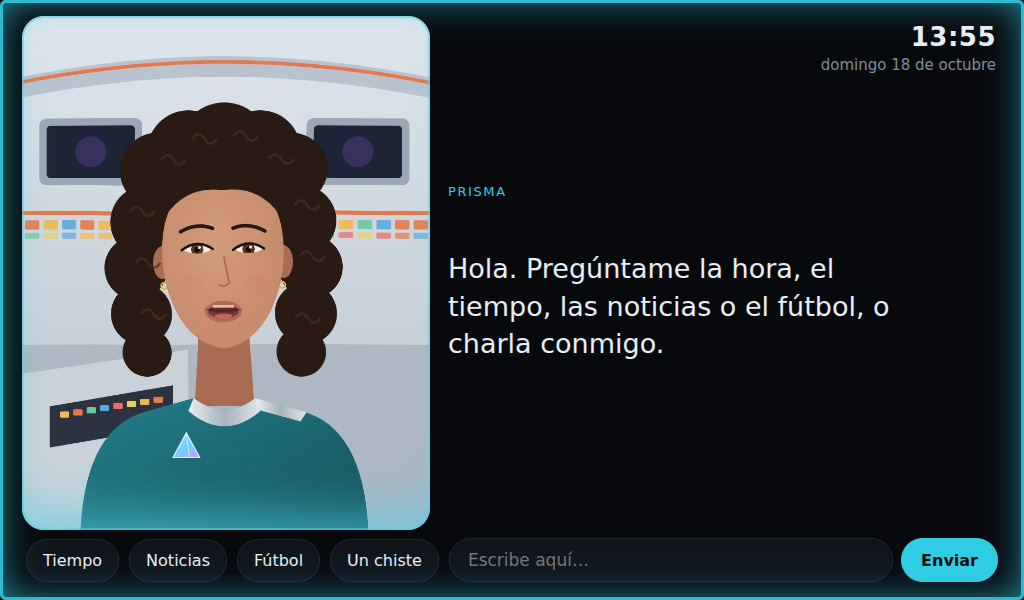
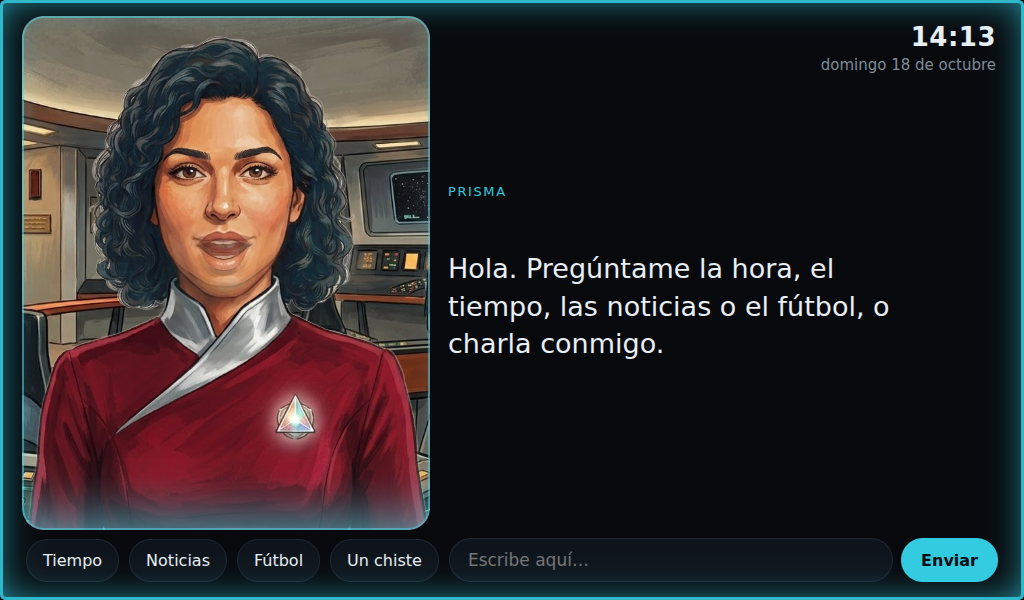
Retrato: la oficial científica de Pep, decorado aparte y variantes de postura
- prepara_retrato.py: fondo opcional con la persona recortada (rembg); la boca se toma siempre de la
  ventana nariz→barbilla (aunque cierre los ojos o retoque la barbilla); variantes con otra postura
  (piensa con la mano) se usan enteras con fundido
- retrato.js: decorado fijo con su propio encuadre y capas que sustituyen a la base
- retrato_muestra: el personaje definitivo preparado

Claude-Session: https://claude.ai/code/session_011wCrvR5XLZziNZnBQxWkpT

diff --git a/software/interfaz/retrato.js b/software/interfaz/retrato.js
@@ -14,7 +14,7 @@ const VS = `
 attribute vec2 aPos; attribute vec2 aUv;
 uniform vec2 uCentro, uEscala, uCaja;           // encuadre: imagen → píxeles de la caja
 uniform vec3 uCabeza; uniform float uCuello, uAng, uRespira;
-uniform vec2 uMueve;
+uniform vec2 uMueve; uniform float uFijo;            // uFijo = 1: el decorado no se deforma
 varying vec2 vUv;
 void main() {
   vec2 p = aPos;
@@ -28,6 +28,7 @@ void main() {
   float cuerpo = clamp(1.0 - abs(p.x - uCabeza.x) / (uCabeza.z * 1.6), 0.0, 1.0);
   float sube = max(w, cuerpo * smoothstep(uCuello + uCabeza.z * 1.6, uCuello, p.y));
   q.y -= uRespira * sube;
+  if (uFijo > 0.5) q = p;
   vec2 s = (q - uCentro) * uEscala + uCaja * 0.5;
   gl_Position = vec4(s.x / uCaja.x * 2.0 - 1.0, 1.0 - s.y / uCaja.y * 2.0, 0.0, 1.0);
   vUv = aUv;
@@ -78,6 +79,11 @@ export async function inicia(raiz = "/retrato/") {
 
   const base = capa(await carga(raiz + datos.base), 0, 0, datos.ancho, datos.alto, MALLA);
   base.alfa = 1;
+  // Decorado aparte (la persona va recortada delante): no se deforma y tiene su propio encuadre
+  const df = datos.fondo;
+  const fondo = df ? capa(await carga(raiz + df.archivo), 0, 0, df.ancho, df.alto, 1) : null;
+  if (fondo) fondo.alfa = 1;
+  const centroF = df ? { ...(df.centro || { x: df.ancho / 2, y: df.alto / 2 }) } : null;
   const capas = {};
   await Promise.all(Object.entries(datos.capas || {}).map(async ([nombre, c]) => {
     try { capas[nombre] = capa(await carga(raiz + c.archivo), c.x, c.y, c.w, c.h, 6); }
@@ -88,12 +94,14 @@ export async function inicia(raiz = "/retrato/") {
 
   const cab = datos.cabeza, cuello = datos.cuello_y;
   const centro = datos.centro || { x: cab.x, y: cab.y + cab.r * 0.55 };
-  let W = 1, H = 1, esc = 1;
+  const sustituyen = Object.keys(datos.capas || {}).filter(n => datos.capas[n].sustituye && capas[n]);
+  let W = 1, H = 1, esc = 1, escF = 1;
   function ajusta() {
     W = caja.clientWidth; H = caja.clientHeight;
     lienzo.width = W; lienzo.height = H; gl.viewport(0, 0, W, H);
     // Cubre la caja, con la cara un poco por encima del centro, sin dejar huecos
     esc = Math.max(W / datos.ancho, H / datos.alto) * (datos.zoom || 1);
+    if (df) escF = Math.max(W / df.ancho, H / df.alto) * (df.zoom || 1);
   }
   addEventListener("resize", ajusta); ajusta();
 
@@ -159,6 +167,13 @@ export async function inicia(raiz = "/retrato/") {
     gl.uniform1f(U("uAng"), ang);
     gl.uniform2f(U("uMueve"), mx, my);
     gl.uniform1f(U("uRespira"), respira);
+    if (fondo) {
+      gl.uniform1f(U("uFijo"), 1); gl.uniform2f(U("uCentro"), centroF.x, centroF.y); gl.uniform2f(U("uEscala"), escF, escF);
+      dibuja(fondo);
+      gl.uniform1f(U("uFijo"), 0); gl.uniform2f(U("uCentro"), centro.x, centro.y); gl.uniform2f(U("uEscala"), esc, esc);
+    }
+    // Una variante con otra postura (p. ej. «piensa» con la mano) tapa a la base solo cuando ya es opaca
+    base.alfa = sustituyen.some(n => capas[n].alfa > 0.99) ? 0 : 1;
     dibuja(base);
     for (const n of orden) dibuja(capas[n]);
   }
@@ -168,6 +183,11 @@ export async function inicia(raiz = "/retrato/") {
     const mw = W / esc / 2, mh = H / esc / 2;
     centro.x = Math.min(Math.max(centro.x, mw), datos.ancho - mw);
     centro.y = Math.min(Math.max(centro.y, mh), datos.alto - mh);
+    if (df) {
+      const fw = W / escF / 2, fh = H / escF / 2;
+      centroF.x = Math.min(Math.max(centroF.x, fw), df.ancho - fw);
+      centroF.y = Math.min(Math.max(centroF.y, fh), df.alto - fh);
+    }
   };
   lim(); addEventListener("resize", lim);
   requestAnimationFrame(bucle);

diff --git a/software/herramientas/prepara_retrato.py b/software/herramientas/prepara_retrato.py
@@ -8,6 +8,7 @@ Pon en una carpeta las imágenes con estos nombres (PNG o JPG; solo «base» es 
     piensa          mirando arriba, pensativa
     sonrisa         sonrisa amplia (al escuchar)
     triste          apenada (cuando algo falla)
+    fondo           (opcional) el decorado sin personaje: se recorta a la persona y se pone delante
 
     python3 prepara_retrato.py ~/retrato_nuevo            # crea ~/.config/prisma/retrato/
     python3 prepara_retrato.py ~/retrato_nuevo --salida OTRA_CARPETA
@@ -16,7 +17,10 @@ Para cada variante: la alinea con la base, localiza qué zona cambia (ojos, boca
 y recorta solo esa zona con bordes difuminados. Así el resto de la imagen es siempre la base y no
 parpadea aunque el generador haya cambiado detalles mínimos. Escribe retrato.json con las capas y
 una estimación de la cabeza y el cuello (para el balanceo); se pueden corregir a mano en el JSON.
-Necesita numpy y Pillow (en Raspberry Pi OS: sudo apt install python3-numpy python3-pil).
+Si una variante cambia mucho (otra postura, una mano…), se usa entera y se funde con la base.
+Necesita numpy y Pillow (en Raspberry Pi OS: sudo apt install python3-numpy python3-pil) y, si hay
+fondo aparte, rembg para recortar a la persona (pip install "rembg[cpu]" --break-system-packages;
+la primera vez descarga un modelo de 180 MB).
 """
 import argparse, json, os, sys
 import numpy as np
@@ -78,15 +82,20 @@ def zonas(dif, paso):
     return sorted(sal, reverse=True)
 
 
-def region(base, var):
-    """Rectángulo (y0, x0, y1, x1) de la zona que cambia de verdad entre base y variante."""
+def solapa(a, b):
+    return a[0] < b[2] and b[0] < a[2] and a[1] < b[3] and b[1] < a[3]
+
+
+def region(base, var, evita=()):
+    """Rectángulo (y0, x0, y1, x1) de la zona que cambia de verdad entre base y variante.
+    evita: zonas ya conocidas que no cuentan (p. ej. los ojos cerrados en las imágenes de la boca)."""
     paso = 8
     d = np.abs(gris(base) - gris(var))
     d = np.asarray(Image.fromarray(np.clip(d, 0, 255).astype(np.uint8)).filter(ImageFilter.GaussianBlur(3))).astype(np.float32)
     h, w = d.shape
     p = d[: h // paso * paso, : w // paso * paso].reshape(h // paso, paso, w // paso, paso).mean(axis=(1, 3))
     umbral = max(12.0, np.percentile(p, 99) * 0.35)
-    comps = zonas(np.where(p > umbral, p, 0), paso)
+    comps = [c for c in zonas(np.where(p > umbral, p, 0), paso) if not any(solapa(c[1:], e) for e in evita)]
     if not comps:
         return None
     _, y0, x0, y1, x1 = comps[0]
@@ -117,6 +126,15 @@ def recorta(base, var, r):
     return Image.fromarray(rgba, "RGBA")
 
 
+def recortador():
+    try:
+        from rembg import new_session, remove
+    except ImportError:
+        sys.exit('Para usar un fondo aparte hace falta rembg:  pip install "rembg[cpu]" --break-system-packages')
+    sesion = new_session("isnet-general-use")
+    return lambda img: np.asarray(remove(img, session=sesion, only_mask=True).convert("L")).astype(np.float32) / 255
+
+
 def main():
     ap = argparse.ArgumentParser(description=__doc__, formatter_class=argparse.RawDescriptionHelpFormatter)
     ap.add_argument("carpeta")
@@ -137,9 +155,23 @@ def main():
     if os.path.isfile(fj):
         with open(fj) as f:
             anterior = json.load(f)
-    base.save(os.path.join(a.salida, "base.jpg"), quality=90)
 
-    capas = {}
+    fondo = abre(a.carpeta, "fondo")
+    mascara = recortador() if fondo else None
+    if fondo:
+        e = min(1.0, MAX_LADO / max(fondo.size))
+        if e < 1:
+            fondo = fondo.resize((round(fondo.width * e), round(fondo.height * e)), Image.LANCZOS)
+        fondo.save(os.path.join(a.salida, "fondo.jpg"), quality=88)
+        m = mascara(base)
+        Image.fromarray(np.dstack([nb, m * 255]).astype(np.uint8), "RGBA").save(os.path.join(a.salida, "base.png"))
+        nombre_base = "base.png"
+        print("  base: persona recortada del fondo")
+    else:
+        base.save(os.path.join(a.salida, "base.jpg"), quality=90)
+        nombre_base = "base.jpg"
+
+    capas, conocidas = {}, []
     for n in VARIANTES:
         v = abre(a.carpeta, n)
         if v is None:
@@ -151,21 +183,42 @@ def main():
         if abs(dy) > H * 0.1 or abs(dx) > W * 0.1:
             dy = dx = 0
         nv = mueve(nv, dy, dx)
-        r = region(nb.astype(np.float32), nv)
+        if n.startswith("boca_") and conocidas:
+            # La boca: siempre la misma ventana bajo los ojos (nariz → barbilla). Al abrirla, el generador
+            # suele retocar también la barbilla y el cuello, y eso no debe convertirla en otra postura
+            oy0, ox0, oy1, ox1 = conocidas[0]
+            ancho = ox1 - ox0
+            cx, cy = (ox0 + ox1) / 2, (oy0 + oy1) / 2
+            r = (int(oy1 - ancho * 0.04), int(cx - ancho * 0.42), int(min(H, cy + ancho * 0.9)), int(cx + ancho * 0.42))
+        else:
+            r = region(nb.astype(np.float32), nv, conocidas if n.startswith("boca_") else ())
         if r is None:
             print(f"  {n}: no se aprecia ningún cambio respecto a la base; se omite")
             continue
-        recorta(nb, nv, r).save(os.path.join(a.salida, n + ".png"))
         y0, x0, y1, x1 = r
+        if (y1 - y0) * (x1 - x0) > 0.1 * W * H and not n.startswith("boca_"):
+            # Cambia la postura: la variante entera (recortada si hay fondo) sustituye a la base con un fundido
+            img = Image.fromarray(np.clip(nv, 0, 255).astype(np.uint8))
+            al = mascara(img) if mascara else np.ones((H, W), np.float32)
+            ys, xs = np.nonzero(al > 0.02)
+            y0, y1, x0, x1 = (int(ys.min()), int(ys.max()) + 1, int(xs.min()), int(xs.max()) + 1) if len(ys) else (0, H, 0, W)
+            rgba = np.dstack([np.asarray(img), al * 255]).astype(np.uint8)[y0:y1, x0:x1]
+            Image.fromarray(rgba, "RGBA").save(os.path.join(a.salida, n + ".png"))
+            capas[n] = {"archivo": n + ".png", "x": x0, "y": y0, "w": x1 - x0, "h": y1 - y0, "sustituye": True}
+            print(f"  {n}: cambia la postura; se usa entera ({x1 - x0}×{y1 - y0}) con fundido")
+            continue
+        recorta(nb, nv, r).save(os.path.join(a.salida, n + ".png"))
         capas[n] = {"archivo": n + ".png", "x": x0, "y": y0, "w": x1 - x0, "h": y1 - y0}
+        if n == "ojos_cerrados":
+            conocidas.append(r)
         print(f"  {n}: zona {x1 - x0}×{y1 - y0} en ({x0}, {y0}), desplazada ({dx}, {dy})")
 
     # Cabeza y cuello a partir de ojos y boca (corregibles a mano en retrato.json)
-    ojos = capas.get("ojos_cerrados") or capas.get("piensa")
+    ojos = capas.get("ojos_cerrados")
     boca = next((capas[k] for k in ("boca_a", "boca_o", "boca_e", "boca_i", "boca_u") if k in capas), None)
     if ojos and boca:
         ox, oy = ojos["x"] + ojos["w"] / 2, ojos["y"] + ojos["h"] / 2
-        by = boca["y"] + boca["h"] / 2
+        by = boca["y"] + boca["h"] * 0.3        # la ventana de la boca baja hasta la barbilla
         d = max(by - oy, H * 0.04)
         cabeza = {"x": round(ox), "y": round(oy + d * 0.15), "r": round(d * 2.6)}
         cuello_y = round(by + d * 1.0)
@@ -173,13 +226,16 @@ def main():
         cabeza = {"x": W // 2, "y": round(H * 0.42), "r": round(H * 0.22)}
         cuello_y = round(H * 0.62)
     datos = {
-        "ancho": W, "alto": H, "base": "base.jpg",
+        "ancho": W, "alto": H, "base": nombre_base,
         "cabeza": anterior.get("cabeza", cabeza),
         "cuello_y": anterior.get("cuello_y", cuello_y),
         "centro": anterior.get("centro", {"x": cabeza["x"], "y": round(cabeza["y"] + cabeza["r"] * 0.55)}),
         "zoom": anterior.get("zoom", 1.0),
         "capas": capas,
     }
+    if fondo:
+        datos["fondo"] = anterior.get("fondo") or {"archivo": "fondo.jpg", "ancho": fondo.width, "alto": fondo.height,
+                                                   "centro": {"x": fondo.width // 2, "y": fondo.height // 2}}
     with open(fj, "w") as f:
         json.dump(datos, f, indent=1, ensure_ascii=False)
     print(f"Listo: {len(capas)} capas en {a.salida}. Recarga la pantalla (F5) para verlo.")

diff --git a/docs/12_avatar.md b/docs/12_avatar.md
@@ -7,7 +7,8 @@ pero está viva, y para la Pi 5 es mucho más ligero que un personaje 3D (D041).
 ## Cómo funciona
 - `software/interfaz/retrato.js` (WebGL, sin librerías) carga `/retrato/retrato.json`, que el servidor saca de:
   1. `~/.config/prisma/retrato/` — **tu retrato**, preparado con la herramienta de abajo;
-  2. si no, `software/interfaz/retrato_muestra/` — retrato provisional dibujado para probar el motor.
+  2. si no, `software/interfaz/retrato_muestra/` — la oficial científica de Prisma (imágenes de Pep, 18/10/2026), ya preparada.
+- Si hay **decorado aparte** (`fondo`), la persona se recorta automáticamente y se pone delante; el decorado no se mueve.
 - La imagen base se deforma con una malla: la cabeza se balancea e inclina alrededor del cuello y los hombros suben y bajan al respirar. Las capas (recortes pequeños con bordes difuminados) siguen la misma deformación, así que encajan siempre.
 - Si no hay WebGL o falla algo, se queda la cara simple. Nada se rompe.
 - El borde del retrato y un brillo abajo toman el color del estado, como el marco y las franjas LED.
@@ -20,9 +21,12 @@ pero está viva, y para la Pi 5 es mucho más ligero que un personaje 3D (D041).
 | hablando | `boca_a/e/o/i/u` | bocas con fundido según el volumen de la voz |
 | error | `triste` | — |
 
-Las capas que falten simplemente no se usan. **Labios:** ahora se simula un ritmo de sílabas; con la voz (Piper) seguirán el volumen real: `window.avatar.nivel(0..1)`.
+Las capas que falten simplemente no se usan. Si una variante cambia la postura (en `piensa` aparece la mano), se usa entera y se funde con la base en vez de recortarla.
 
-![Retrato de muestra](img/avatar_retrato.png)
+![Estados: reposo, hablando (a, o), pensando, error](img/avatar_estados.png)
+ **Labios:** ahora se simula un ritmo de sílabas; con la voz (Piper) seguirán el volumen real: `window.avatar.nivel(0..1)`.
+
+![La oficial científica en la pantalla](img/avatar_retrato.png)
 
 ## Crear el personaje definitivo
 Personaje **original**: oficial científico de una nave, estilo cómic semirrealista, uniforme propio y emblema de un prisma. Inspirado en la ciencia ficción de los 60, **sin elementos de Star Trek** (ni personajes, ni uniformes, insignias o puente de la serie). Responderá a «Ordenador».
@@ -44,15 +48,17 @@ Sobre la imagen elegida, pide cambios pequeños **sin cambiar nada más** («kee
 | `sonrisa` *(opcional)* | same image, warm open smile |
 | `triste` *(opcional)* | same image, slightly worried expression |
 
-Mínimo: `base`, `ojos_cerrados`, `boca_a` y `boca_o`.
+Mínimo: `base`, `ojos_cerrados`, `boca_a` y `boca_o`. No importa si en las bocas cierra los ojos o si retoca la barbilla: de esas imágenes solo se toma la zona entre la nariz y la barbilla.
+Opcional, `fondo`: el decorado sin la persona. Si está, la persona se recorta (fondo liso detrás de ella en las demás imágenes).
 
 ### 3. Prepararlas en la Pi
 Copia las imágenes con esos nombres a una carpeta (p. ej. `~/retrato_nuevo/base.png`, `boca_a.png`…) y:
 ```bash
 python3 ~/prisma/software/herramientas/prepara_retrato.py ~/retrato_nuevo
 ```
+Si hay `fondo` necesita rembg (`pip install "rembg[cpu]" --break-system-packages`; descarga un modelo de 180 MB la primera vez y tarda ≈1 min en la Pi). También me puedes pasar las imágenes y te las preparo.
 Alinea cada variante con la base, detecta qué zona cambia, iguala el color y recorta solo esa zona. Si el generador movió o retocó algo más, se ignora. Crea `~/.config/prisma/retrato/` con `retrato.json`; recarga la pantalla (`F5`).
-En `retrato.json` se pueden ajustar a mano `cabeza` (centro y radio de lo que se balancea), `cuello_y`, `centro` (encuadre) y `zoom`.
+En `retrato.json` se pueden ajustar a mano `cabeza` (centro y radio de lo que se balancea), `cuello_y`, `centro` (encuadre), `zoom` y `fondo.centro` (qué parte del decorado se ve).
 
 ## Alternativa 3D (VRM)
 Sigue disponible el motor 3D (`avatar.js`, Three.js + three-vrm incluidos): si copias un personaje VRM a `~/.config/prisma/avatar.vrm` y no hay retrato propio, se usa ese.
